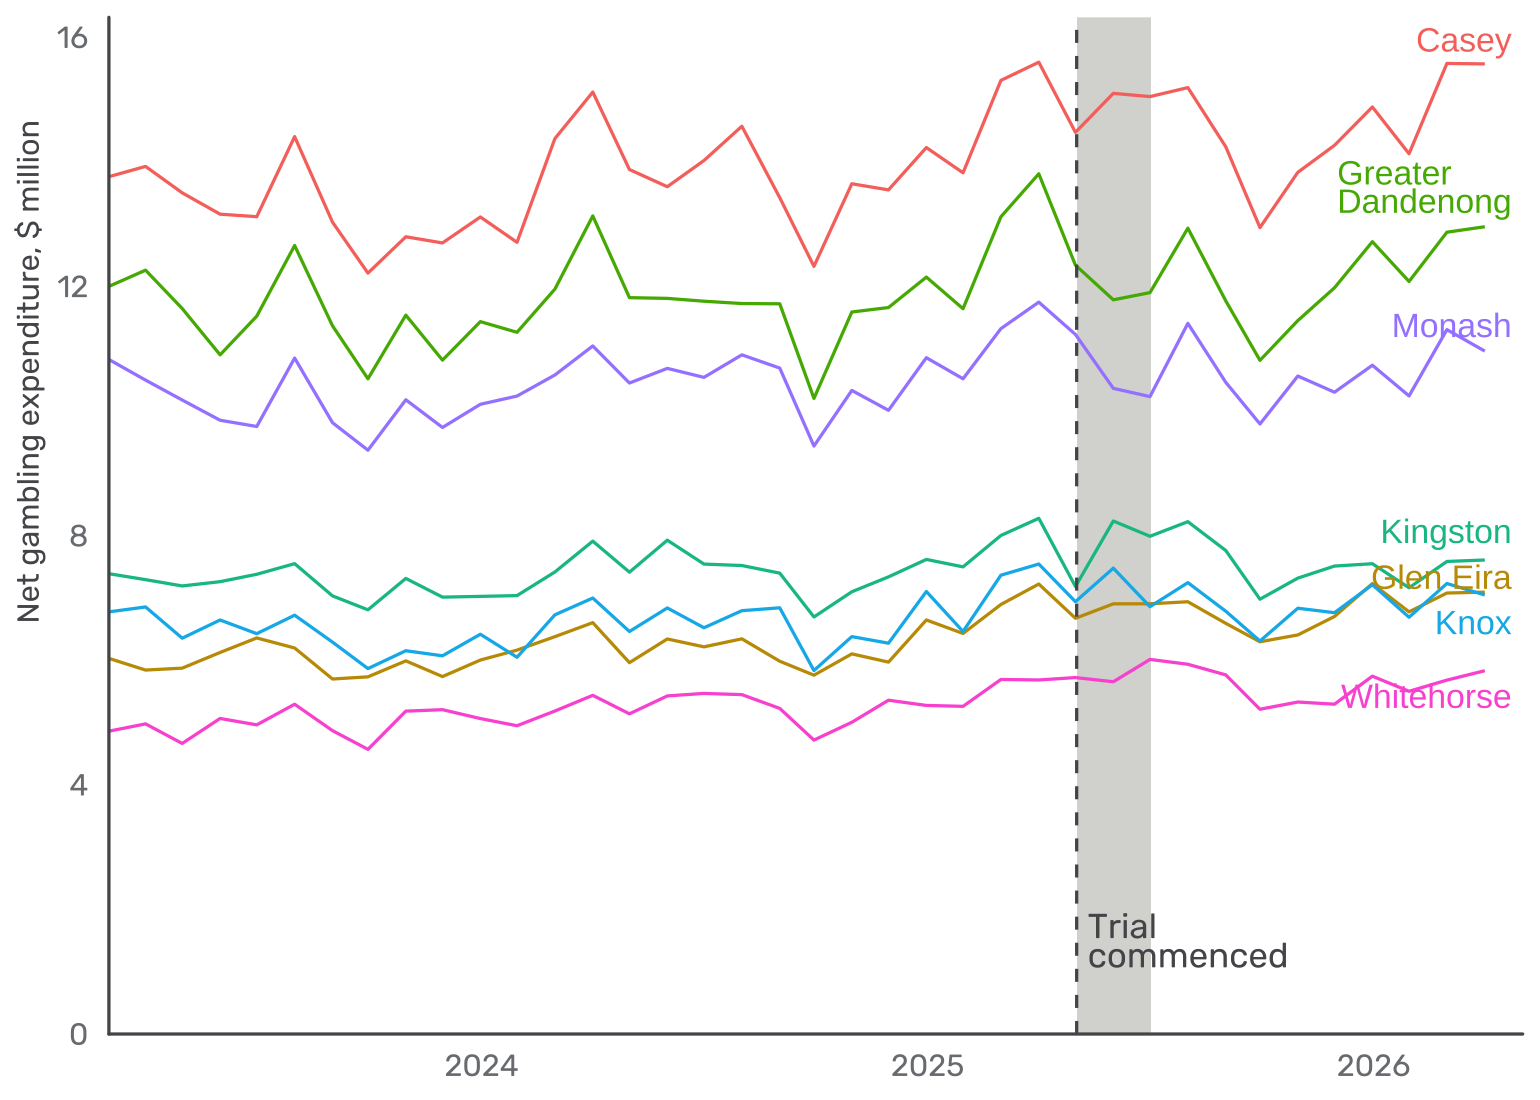
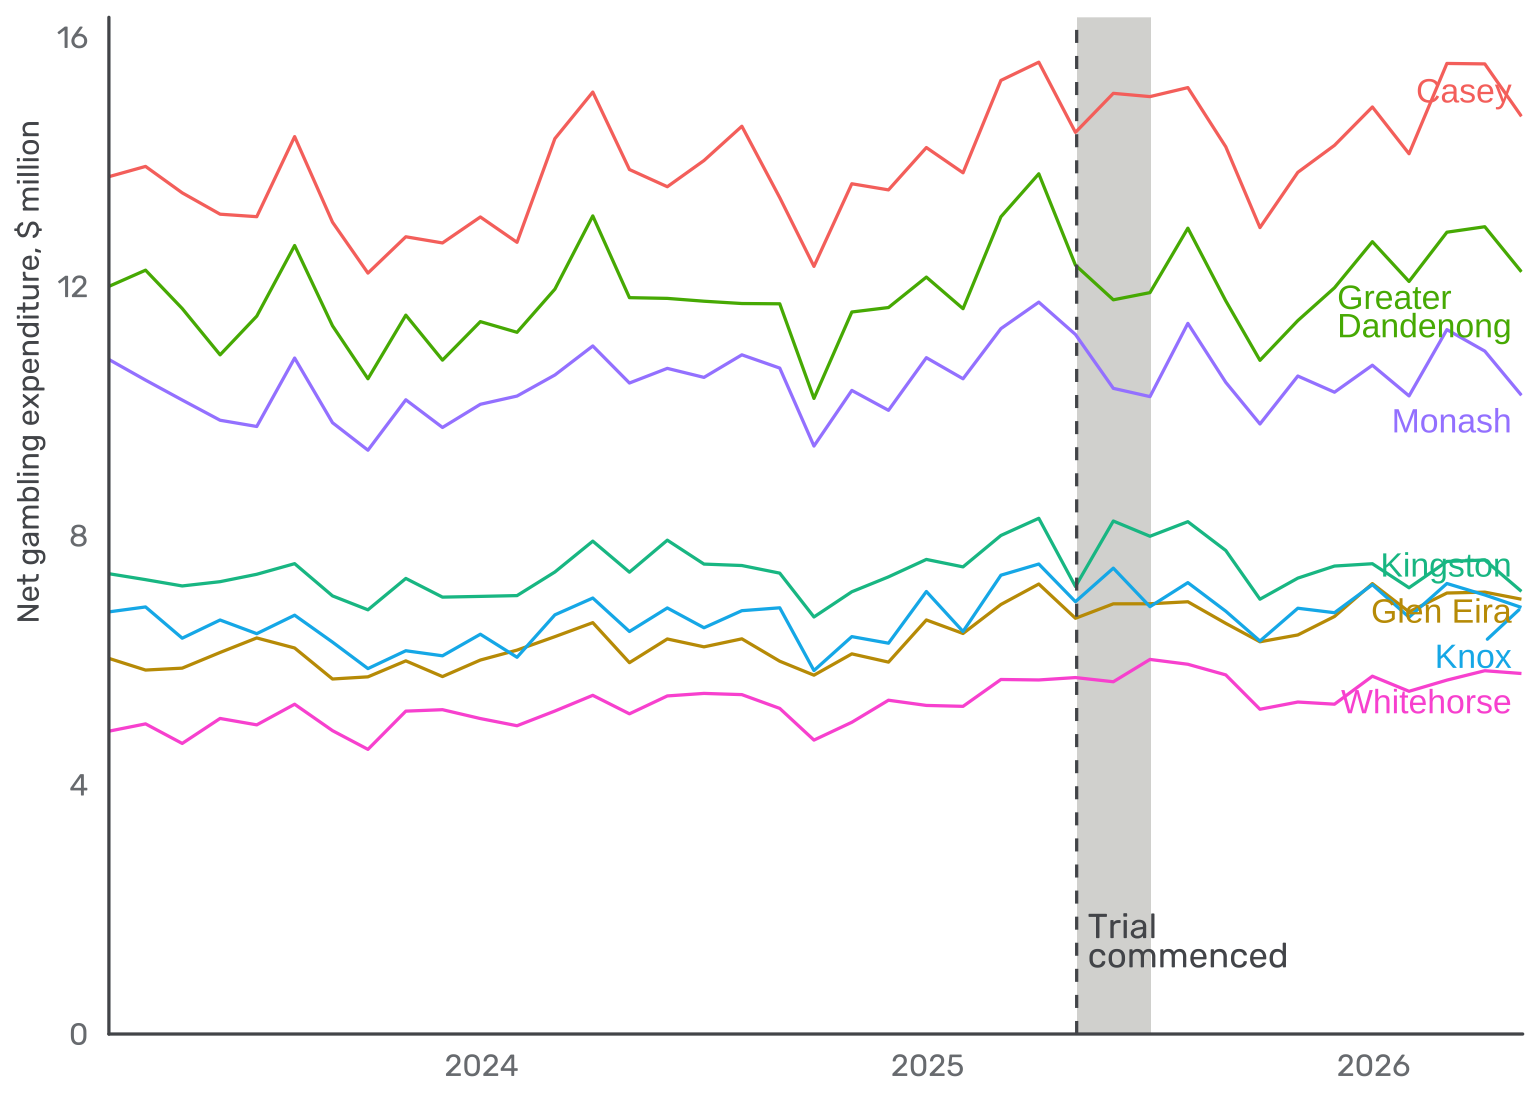
Update with September 2026 data

diff --git a/README.md b/README.md
@@ -95,7 +95,7 @@ with:
 lga_data = vcglR::egm_lga_data
 
 dplyr::glimpse(lga_data)
-#> Rows: 9,075
+#> Rows: 9,246
 #> Columns: 5
 #> $ lga_name       <chr> "Alpine", "Alpine", "Alpine", "Alpine", "Alpine", "Alpi…
 #> $ financial_year <date> 2019-06-30, 2019-06-30, 2019-06-30, 2019-06-30, 2019-0…
@@ -119,8 +119,8 @@ Cleaning consists of:
 
 ## Last updated
 
-Last update on 01 October 2026. Annual data is up to the 2025-26
-financial year and monthly data is up to August 2026.
+Last update on 11 November 2026. Annual data is up to the 2025-26
+financial year and monthly data is up to September 2026.
 
 ## Possible analysis
 
